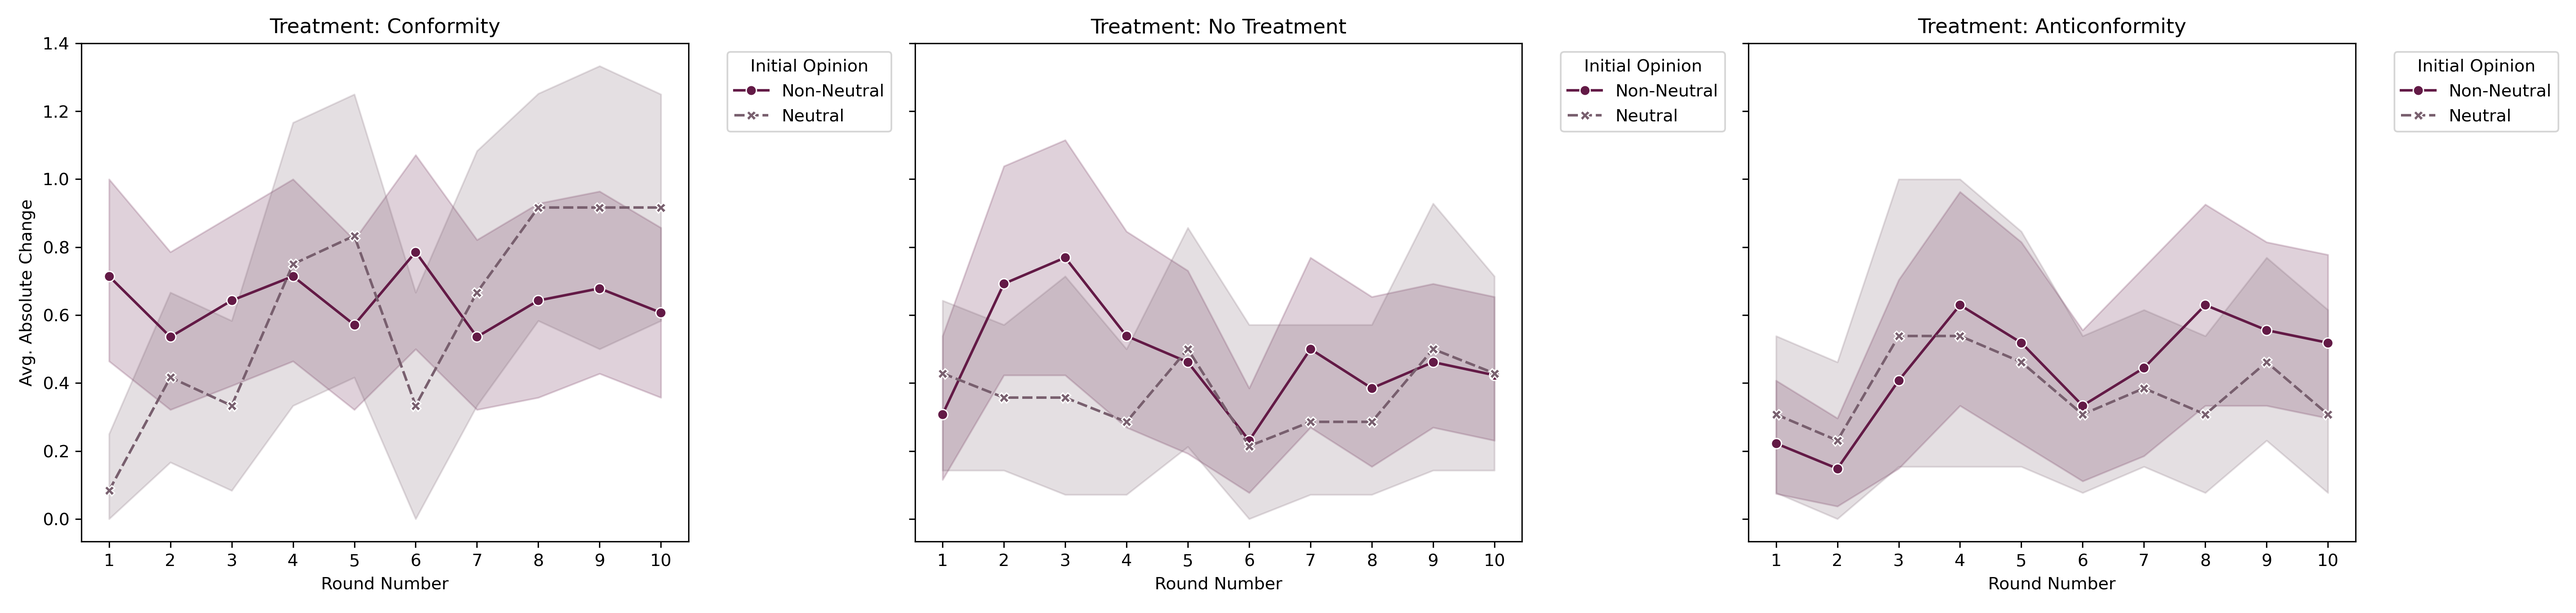
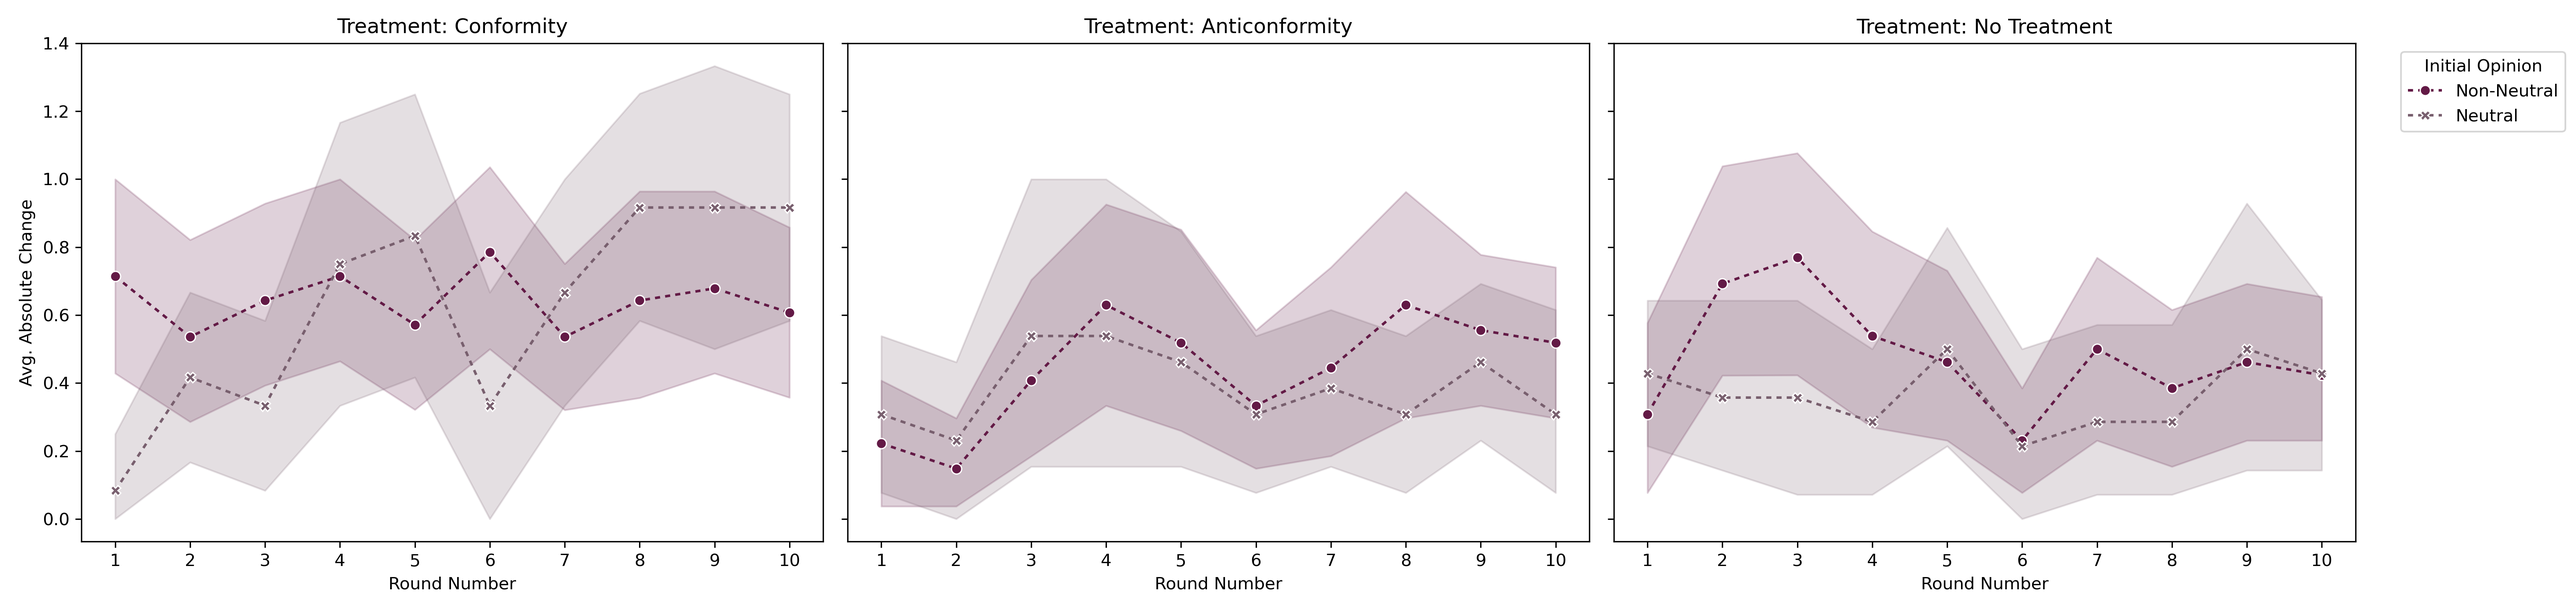
minor edits to plot

diff --git a/plot_treatment_opinion_change.py b/plot_treatment_opinion_change.py
@@ -228,7 +228,6 @@ df_round10['correct_anticonformity'] = df_round10['neighbors'].map(correct_antic
 df_round10['correct_response_given_treatment'] = df_round10.apply(check_response_correct, axis=1)
 
 ### CORRECT OR INCORRECT RESPONSE PLOT (CONFORMITY AND ANTICONFORMITY) Note: only for round 10
-# TODO: plot round by round
 
 # Plot barplot to count how many people get the correct response in round 10
 # 2 plots: one for conformity and one for anticonformity
@@ -290,6 +289,8 @@ round_numbers = df['round_no'].unique()
 
 # For all treatments, plot the response differentiated by expected / non-expected responses (correct/incorrect)
 
+
+
 # 3 steps:
 # 1. Standardize the neighbors column
 df['neighbors'] = df['neighbors'].apply(which_neighbors_combinations)
@@ -309,7 +310,6 @@ df_counts = df.groupby(['round_no', 'correct_response_given_treatment']).size().
 
 # Convert counts to proportions by dividing by 80 (40 participants * 2 treatments)
 df_counts['proportion'] = df_counts['count'] / 80
-
 
 # Group the data to calculate counts for each round and response correctness
 df_treatment = df.copy()
@@ -331,7 +331,7 @@ df_counts_treatment = df_counts_treatment[df_counts_treatment['treatment_type'] 
 
 # Convert counts to proportions by dividing by 80 (40 participants * 2 treatments)
 df_counts_treatment.loc[:,'proportion'] = df_counts['count'] / 80
-df_counts_treatment[['correct_responses_given_treatment','count', 'treatment_type']]
+
 
 ## COUNT PLOT
 # Create subplots for Anticonformity and Conformity and Both
@@ -415,6 +415,7 @@ axes[2].legend(
 
 # Adjust layout
 plt.tight_layout()
+plt.show()
 plt.savefig('All+C+AC_expected_response_change.png', dpi=300)
 plt.show()
 
@@ -778,8 +779,17 @@ plt.show()
 df_steps_extneu['treatment_type'] = df_steps_extneu['participant.treatment'].apply(
     lambda x: 'Conformity' if x.startswith('C') else ('Anticonformity' if x.startswith('A') else 'No Treatment'))
 
+# Convert treatment_type to categorical type for better plotting
+df_steps_extneu['treatment_type'] = pd.Categorical(df_steps_extneu['treatment_type'], 
+                                                    categories=['Conformity', 'Anticonformity', 'No Treatment'],
+                                                    ordered=True)
+
+
+# Prepare No Treatment data for overlay
+no_treatment_data = df_steps_extneu[df_steps_extneu['treatment_type'] == 'No Treatment']
+
 palette = {'Neutral': '#785f6e', 'Non-Neutral':'#631a46' ,}
-treatment_types = df_steps_extneu['treatment_type'].unique().tolist()
+treatment_types = ['Conformity' , 'Anticonformity' , 'No Treatment']
 n_types = len(treatment_types)
 fig, axes = plt.subplots(1, n_types, figsize=(7 * n_types, 5), sharex=True, sharey=True)
 if n_types == 1:
@@ -787,6 +797,7 @@ if n_types == 1:
 
 for i, t_type in enumerate(treatment_types):
     data = df_steps_extneu[df_steps_extneu['treatment_type'] == t_type]
+    # Use lineplot with dashes for all lines
     sns.lineplot(
         data=data,
         x='round_no',
@@ -795,19 +806,45 @@ for i, t_type in enumerate(treatment_types):
         style='initially_neutral',
         palette=palette,
         markers=True,
-        dashes=True,
+        dashes=[(2,2), (2,2)],  # force all lines to be dashed
         ax=axes[i]
     )
+    
+    # Overlay No Treatment lines (same color/style for all subplots)
+    if not no_treatment_data.empty:
+        palette2 = {'Neutral': "#53E3E8", 'Non-Neutral':"#14908E" ,}
+        for init_neu, color in palette2.items():
+            nt_subset = no_treatment_data[no_treatment_data['initially_neutral'] == init_neu]
+            if not nt_subset.empty:
+                means = nt_subset.groupby('round_no')['response_delta'].mean()
+                axes[i].plot(
+                    means.index, means.values,
+                    label=f'No Treatment ({init_neu})',
+                    color=color,
+                    linestyle='-',  # full line
+                    marker='x',     # add marker here
+                    linewidth=2,
+                    alpha=0.7,
+                    zorder=0
+                )
+
     axes[i].set_title(f'Treatment: {t_type}')
     axes[i].set_xlabel('Round Number')
     axes[i].set_ylabel('Avg. Absolute Change')
     axes[i].set_xticks(range(1, 11))
-    axes[i].legend(title='Initial Opinion', loc='upper left', bbox_to_anchor=(1.05, 1))
+    # Only show legend for the last subplot
+    if i != n_types - 1:
+        axes[i].get_legend().remove()
+    else:
+        axes[i].legend(title='Initial Opinion', loc='upper left', bbox_to_anchor=(1.05, 1))
 
 plt.tight_layout()
-plt.savefig('abs_response_change_per_round_by_ext_treatment.png', dpi=300)
+plt.savefig('abs_overlay_response_change_per_round_by_ext_treatment.png', dpi=300)
+#plt.savefig('abs_response_change_per_round_by_ext_treatment.png', dpi=300)
 plt.show()
 
+# Prepare No Treatment data for overlay
+no_treatment_data = df_steps_extneu[df_steps_extneu['treatment_type'] == 'No Treatment']
 
 fig, axes = plt.subplots(1, n_types, figsize=(7 * n_types, 5), sharex=True, sharey=True)
 for i, t_type in enumerate(treatment_types):
@@ -823,12 +860,36 @@ for i, t_type in enumerate(treatment_types):
         dashes=True,
         ax=axes[i]
     )
+    # Overlay No Treatment lines (same color/style for all subplots)
+    if not no_treatment_data.empty:
+        palette2 = {'Neutral': "#53E3E8", 'Non-Neutral':"#14908E" ,}
+        for init_neu, color in palette2.items():
+            nt_subset = no_treatment_data[no_treatment_data['initially_neutral'] == init_neu]
+            if not nt_subset.empty:
+                means = nt_subset.groupby('round_no')['response_change'].mean()
+                axes[i].plot(
+                    means.index, means.values,
+                    label=f'No Treatment ({init_neu})',
+                    color=color,
+                    linestyle='-',  # full line
+                    marker='x',     # add marker here
+                    linewidth=2,
+                    alpha=0.7,
+                    zorder=0
+                )
+
     axes[i].set_title(f'Treatment: {t_type}')
     axes[i].set_xlabel('Round Number')
     axes[i].set_ylabel('Avg. Opinion Change [Round r+1 - Round r]')
     axes[i].set_xticks(range(1, 11))
     axes[i].legend(title='Initial Opinion', loc='upper left', bbox_to_anchor=(1.05, 1))
+    # Only show legend for the last subplot
+    if i != n_types - 1:
+        axes[i].get_legend().remove()
+    else:
+        axes[i].legend(title='Initial Opinion', loc='upper left', bbox_to_anchor=(1.05, 1))
 
 plt.tight_layout()
-plt.savefig('rel_response_change_per_round_by_ext_treatment.png', dpi=300)
+plt.savefig('rel_overlay_response_change_per_round_by_ext_treatment.png', dpi=300)
+#plt.savefig('rel_response_change_per_round_by_ext_treatment.png', dpi=300)
 plt.show()
